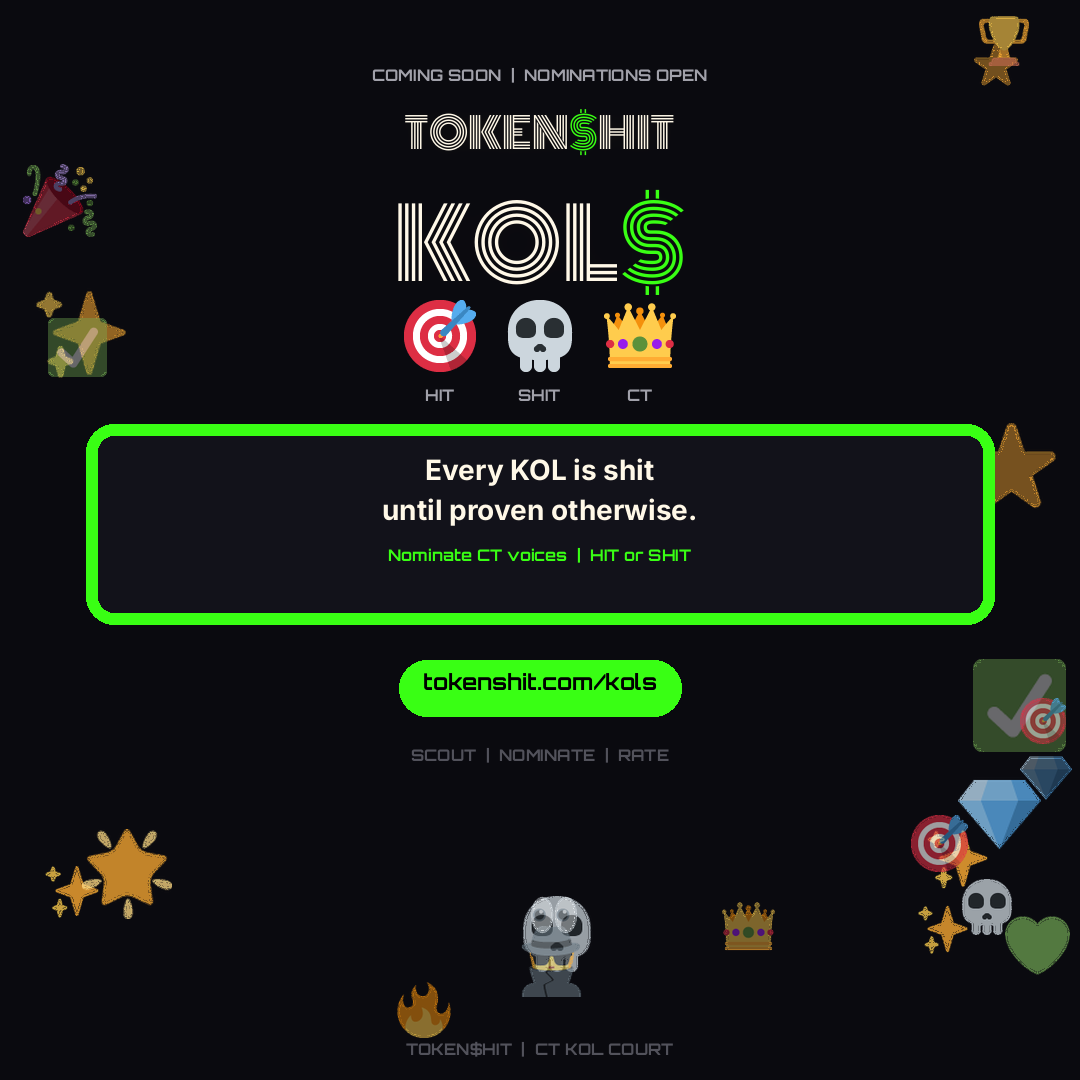
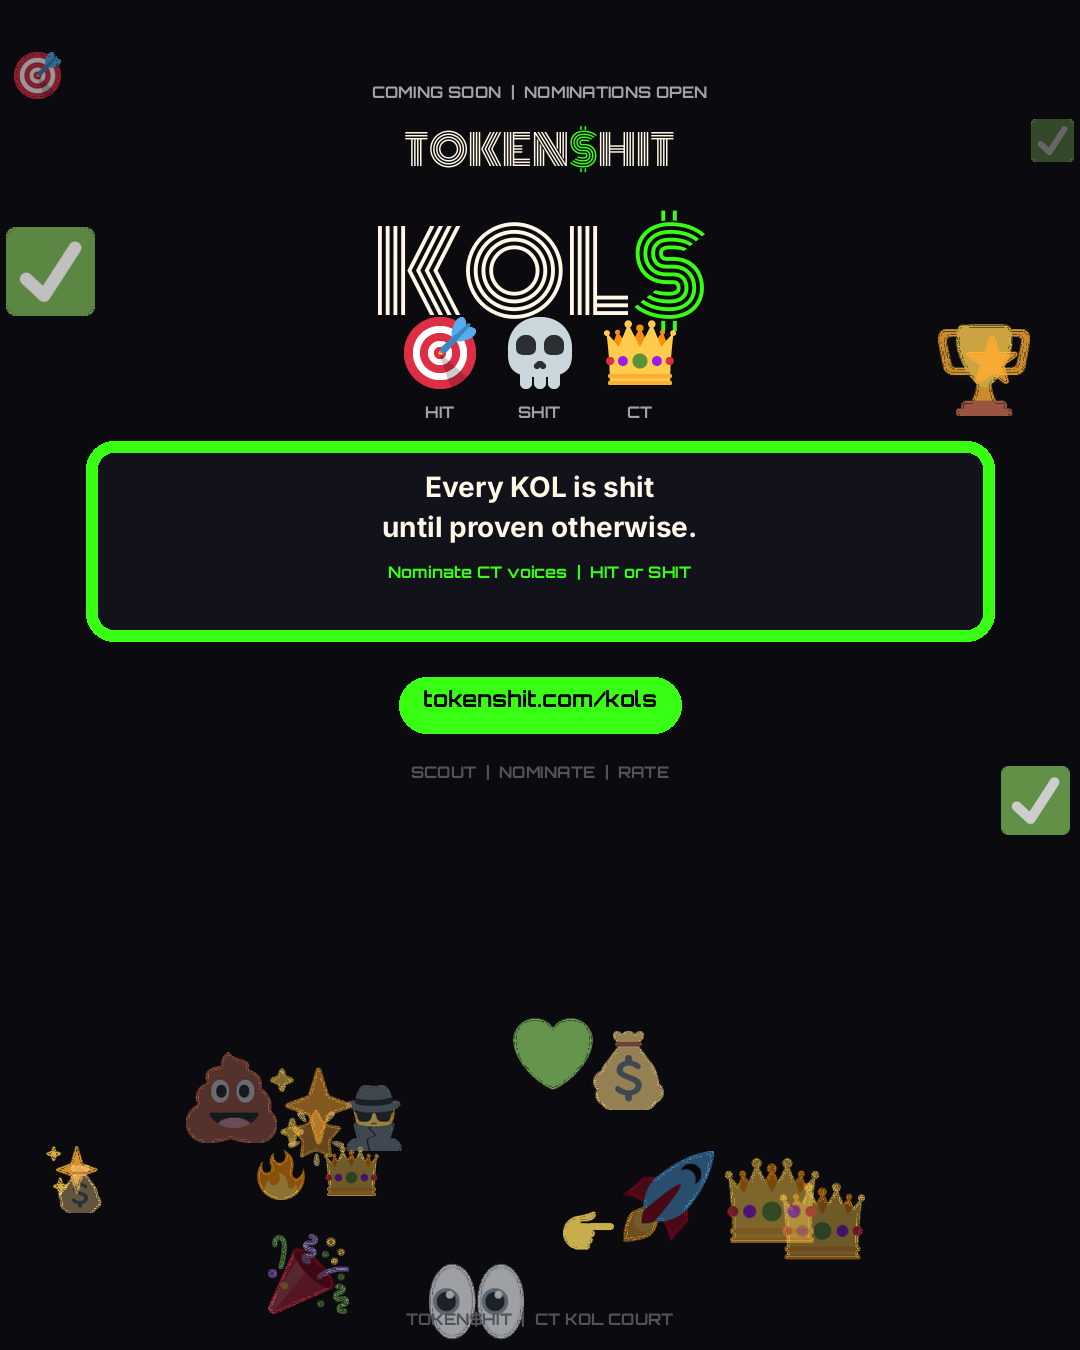
fix: KOL posters correct sizes (1350 poster, 1920 story, 1200 sq, 630 og)

diff --git a/scripts/generate-kols-poster.py b/scripts/generate-kols-poster.py
@@ -256,41 +256,55 @@ def make_poster(size: tuple[int, int], tag: str) -> Image.Image:
     return img.convert("RGB")
 
 
-def save(img: Image.Image, name: str) -> Path:
+def save(img: Image.Image, name: str, brand: str | None = None) -> Path:
     path = OUT / name
     img.save(path, "PNG", optimize=True)
-    # brand aliases
-    if "1080" in name or name.endswith("poster.png"):
-        shutil.copy(path, BRAND / "kols-poster.png")
-    if "1200x630" in name or "banner" in name:
-        shutil.copy(path, BRAND / "kols-banner.png")
-    if "og" in name:
-        shutil.copy(path, BRAND / "kols-og.png")
+    if brand:
+        b = BRAND / brand
+        shutil.copy(path, b)
+        print("brand", b, img.size)
     print("wrote", path, img.size, path.stat().st_size)
     return path
 
 
 def main():
-    # story 1080x1350
-    p1 = make_poster((1080, 1350), "story")
-    save(p1, "kols-1080x1350.png")
-    save(p1, "kols-poster.png")
-    # square
-    p2 = make_poster((1080, 1080), "square")
-    save(p2, "kols-1080.png")
-    # og banner
-    p3 = make_poster((1200, 630), "og")
-    save(p3, "kols-1200x630.png")
-    # cache for TG
     cache = Path("/Volumes/PRO-G40/MacHome-Offload/dotfiles/hermes/cache/images")
     cache.mkdir(parents=True, exist_ok=True)
+
+    # Match jup-like / hit-shit campaign sizes
+    # 1) 4:5 feed poster 1080x1350
+    p45 = make_poster((1080, 1350), "45")
+    save(p45, "kols-1080x1350.png", brand="kols-poster.png")
+    save(p45, "kols-poster.png")
+    p45_2 = p45.resize((2160, 2700), Image.Resampling.LANCZOS)
+    save(p45_2, "kols-poster@2x.png", brand="kols-poster@2x.png")
+
+    # 2) Full story 1080x1920
+    pst = make_poster((1080, 1920), "story")
+    save(pst, "kols-story.png")
+    save(pst, "kols-1080x1920.png")
+
+    # 3) Square 1080 + 1200
+    psq = make_poster((1080, 1080), "square")
+    save(psq, "kols-1080.png")
+    psq12 = make_poster((1200, 1200), "square12")
+    save(psq12, "kols-1200.png")
+
+    # 4) OG / X banner 1200x630
+    pog = make_poster((1200, 630), "og")
+    save(pog, "kols-1200x630.png", brand="kols-banner.png")
+    save(pog, "kols-og.png", brand="kols-og.png")
+    pog2 = pog.resize((2400, 1260), Image.Resampling.LANCZOS)
+    save(pog2, "kols-banner@2x.png", brand="kols-banner@2x.png")
+
     for src, dst in [
         (OUT / "kols-1080x1350.png", cache / "kols-poster.png"),
-        (OUT / "kols-1080.png", cache / "kols-square.png"),
+        (OUT / "kols-story.png", cache / "kols-story.png"),
+        (OUT / "kols-1200.png", cache / "kols-square.png"),
         (OUT / "kols-1200x630.png", cache / "kols-banner.png"),
     ]:
         shutil.copy(src, dst)
-        print("cache", dst)
+        print("cache", dst, Image.open(src).size)
 
 
 if __name__ == "__main__":
